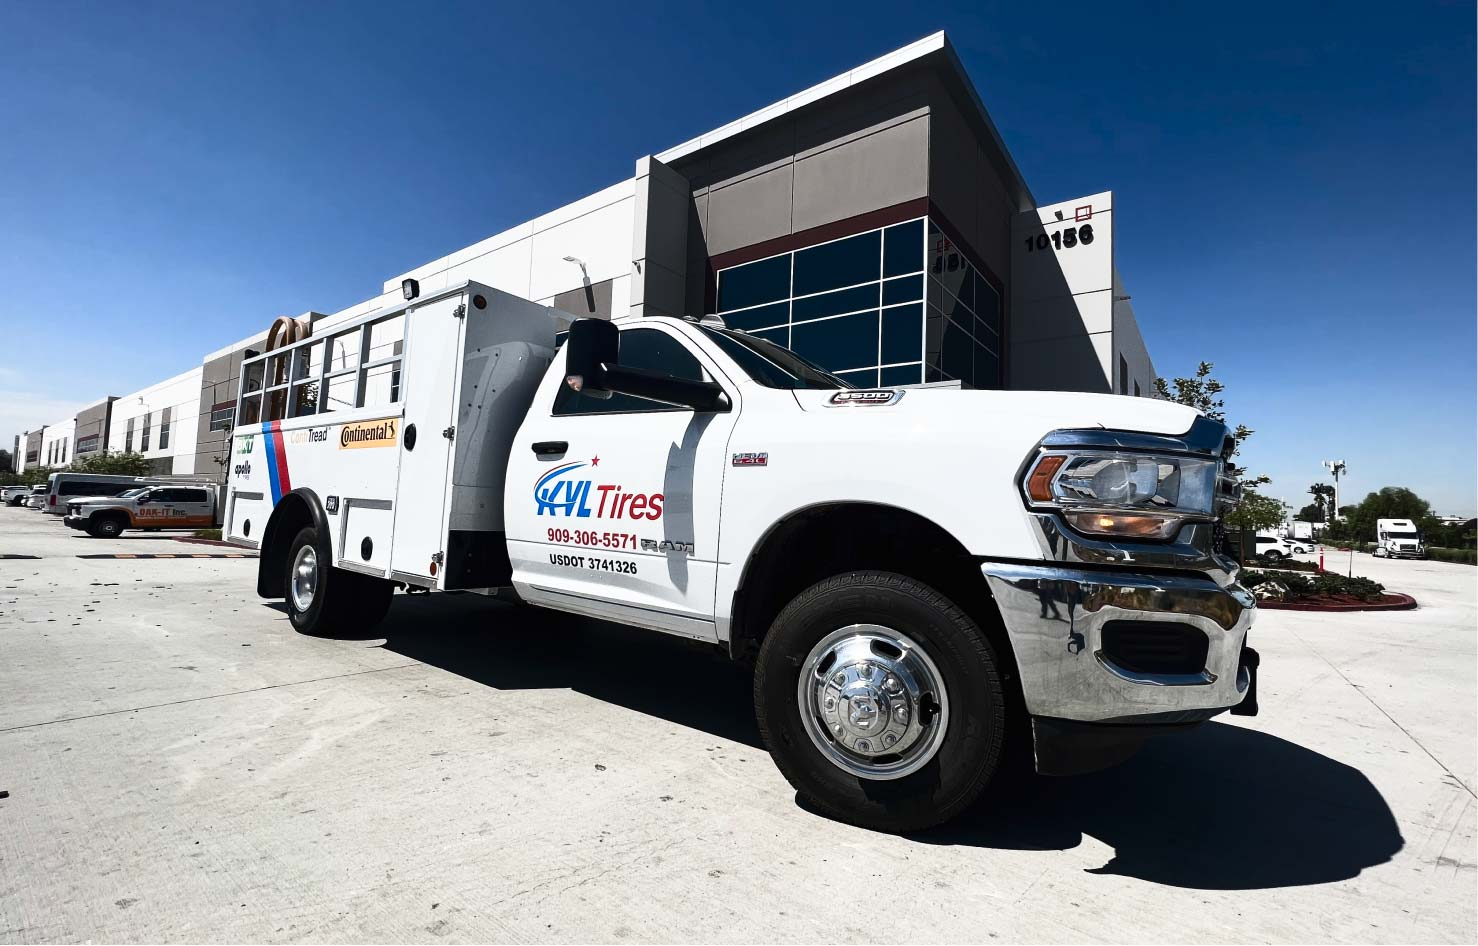
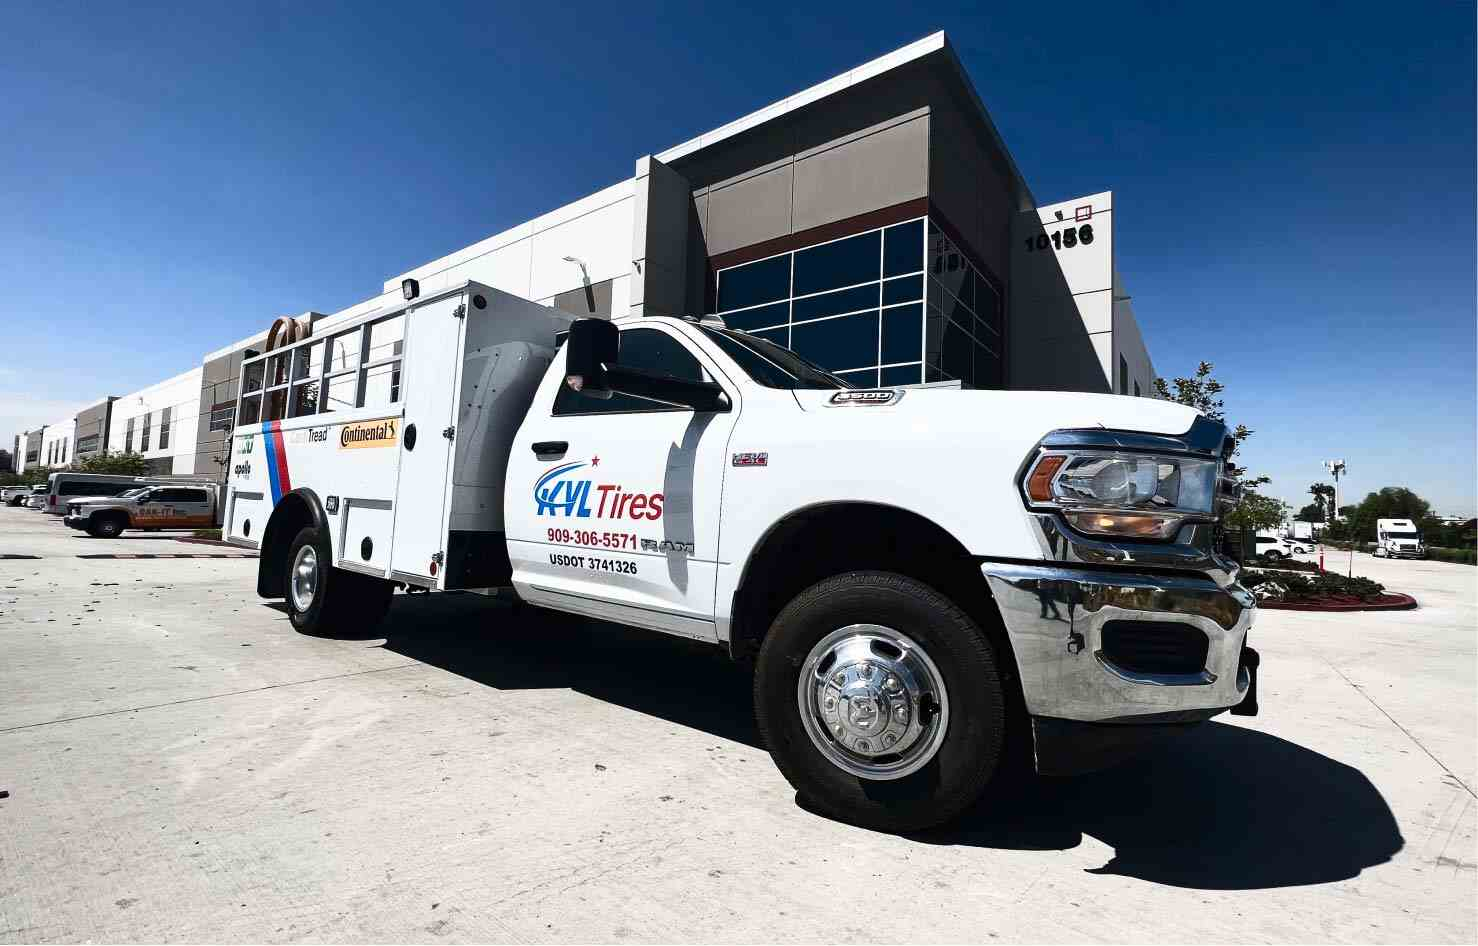
changes

diff --git a/Components/Home/AboutUs.jsx b/Components/Home/AboutUs.jsx
@@ -4,6 +4,7 @@ import { MdLocalPhone } from 'react-icons/md';
 // import { BiMessageDetail } from 'react-icons/bi';
 import { motion } from 'framer-motion';
 import AboutUsTire from '../../Assets/Images/Home/AboutUsTire.jpg';
+import AboutUsTireM from '../../Assets/Images/Home/AboutUsTireM.jpg';
 import AgriculturalTires from '../../Assets/Images/Home/AgriculturalTires.png';
 import CommercialTire from '../../Assets/Images/Home/CommercialTires.png';
 import OTRTires from '../../Assets/Images/Home/OTRTires.png';
@@ -39,7 +40,9 @@ export const AboutUs = () => {
                 <Image
                   loading="lazy"
                   className="lg:absolute lg:inset-0 h-60 w-full lg:h-full object-cover object-center lg:rounded-tl-md  "
-                  src={AboutUsTire}
+                  src={AboutUsTireM}
+                  width={840}
+                  height={440}
                   title="Commercial Tires Services"
                   alt="KVL Tires is a full-service commercial tire dealer based in the United States. This is the vehicle  belongs to pick-up & delivery services."
                 />
@@ -266,6 +269,8 @@ export const AboutUs = () => {
                   loading="lazy"
                   className=" "
                   src={AboutUsTire}
+                  width={950}
+                  height={650}
                   alt="KVL Tires is a full-service commercial tire dealer based in the United States. This is the vehicle  belongs to pick-up & delivery services."
                   title="Commercial Tires Services"
                 />
